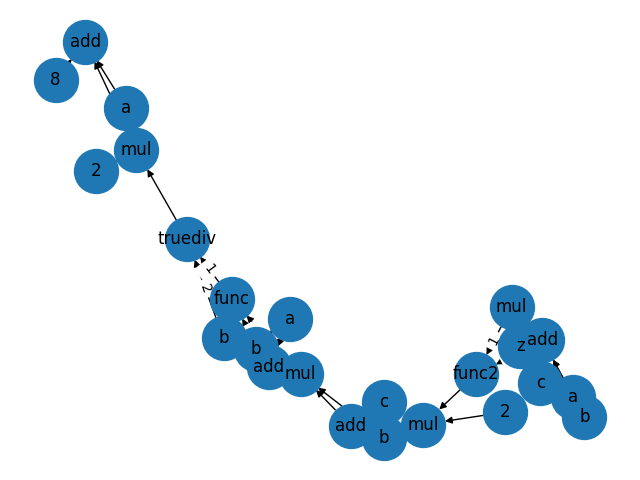
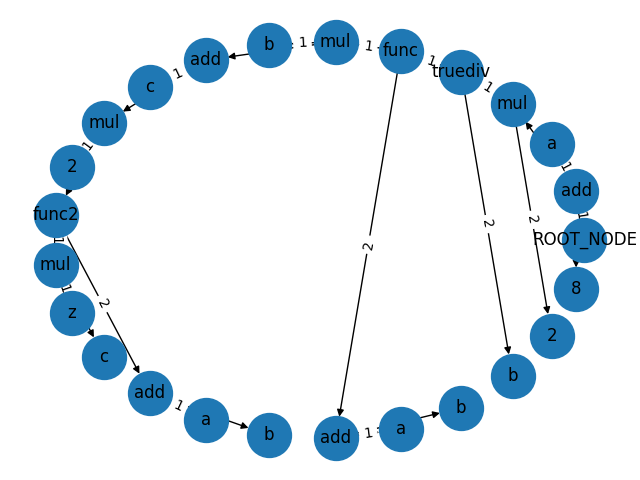
Changes

diff --git a/language/rule.py b/language/rule.py
@@ -7,20 +7,48 @@ class Rule:
     Rule object for graph transformation
     
     -- Parameters --
-        parser_obj_before: the parser object representing the graph that the rule can be applied to
-        parser_obj_after: the parser object representing the graph after the application of the rule
+        parser_obj_in: the parser object representing the graph that the rule can be applied to
+        parser_obj_out: the parser object representing the graph after the application of the rule
         
     -- Methods --
         check(graph): checks if this rule can be applied to the specified graph
         apply(graph): applies the rule to the specified graph
     """
     
-    def __init__(self, parser_obj_before, parser_obj_after):
-        self._parser_obj_before = parser_obj_before
-        self._parser_obj_after = parser_obj_after
+    def __init__(self, parser_obj_in, parser_obj_out):
+        self._parser_obj_in = parser_obj_in
+        self._parser_obj_out = parser_obj_out
+        self._graph_in = parser_obj_in.graph
+        self._vars_in = parser_obj_in.variables_constants
+        self._funcs_in = parser_obj_in.functions
     
     def check(self, graph):
-        pass
+        """
+        Check if rule can be applied to the specified graph
+        """
+        def check_rec(root_node, root_node_check):
+            
+            if root_node_check.value in self._funcs_in:
+                if  (
+                    root_node_check.value != root_node.value or
+                    len(list(graph.successors(root_node))) != len(list(graph.successors(root_node_check)))
+                    ):
+                    raise ValueError
+                
+            else:
+                pass
+        
+        root_node = next(graph.successors('root'))
+        root_node_check = next(self._graph_in.successors('root'))
+        try:
+            check_rec(root_node, root_node_check)
+            return True
+        except ValueError:
+            print("Rule cannot be applied to the specified graph")
+            return False
     
-    def apply(self, parser_obj):
+    def apply(self, graph):
+        """
+        Apply the rule to the specified graph, transforming it to the 
+        """
         pass

diff --git a/language/parser.py b/language/parser.py
@@ -61,19 +61,15 @@ class Parser:
                 item_node = Node(item)
                 isfunction = item in self.functions
                 self.graph.add_node(item_node, name=item, isfunction=isfunction)
-                self.graph.add_edge(item_node, root_node, order=i - functions_found + 1)
+                self.graph.add_edge(root_node, item_node, order=i - functions_found + 1)
                 if isfunction:
                     functions_found += 1
                     next(arg_iter)
                     generate_subgraph(item_node, arguments_list[i + 1])
 
         graph_list = self._parse_expression()
-        root_node = Node(graph_list[0])
-        isfunction = root_node.value in self.functions
-        self.graph.add_node(root_node, name=root_node.value, isfunction=isfunction)
-        if isfunction:
-            arguments_list = graph_list[1]
-            generate_subgraph(root_node, arguments_list)
+        self.graph.add_node("root", name="ROOT_NODE")
+        generate_subgraph("root", graph_list)
 
     def _parse_expression(self):
         """

diff --git a/main.py b/main.py
@@ -6,7 +6,7 @@ expression = "a + func(b * (c + 2 * func2(z * c, a + b)), a + b) / b * 2 + 8"
 parser_obj = Parser(expression, {})
 DG = parser_obj.graph
 
-pos = nx.spring_layout(DG)
+pos = nx.circular_layout(DG)
 nx.draw(DG, pos, node_size=1000)
 nx.draw_networkx_labels(DG, pos, labels=nx.get_node_attributes(DG, "name"))
 nx.draw_networkx_edge_labels(DG, pos, edge_labels=nx.get_edge_attributes(DG, "order"))
